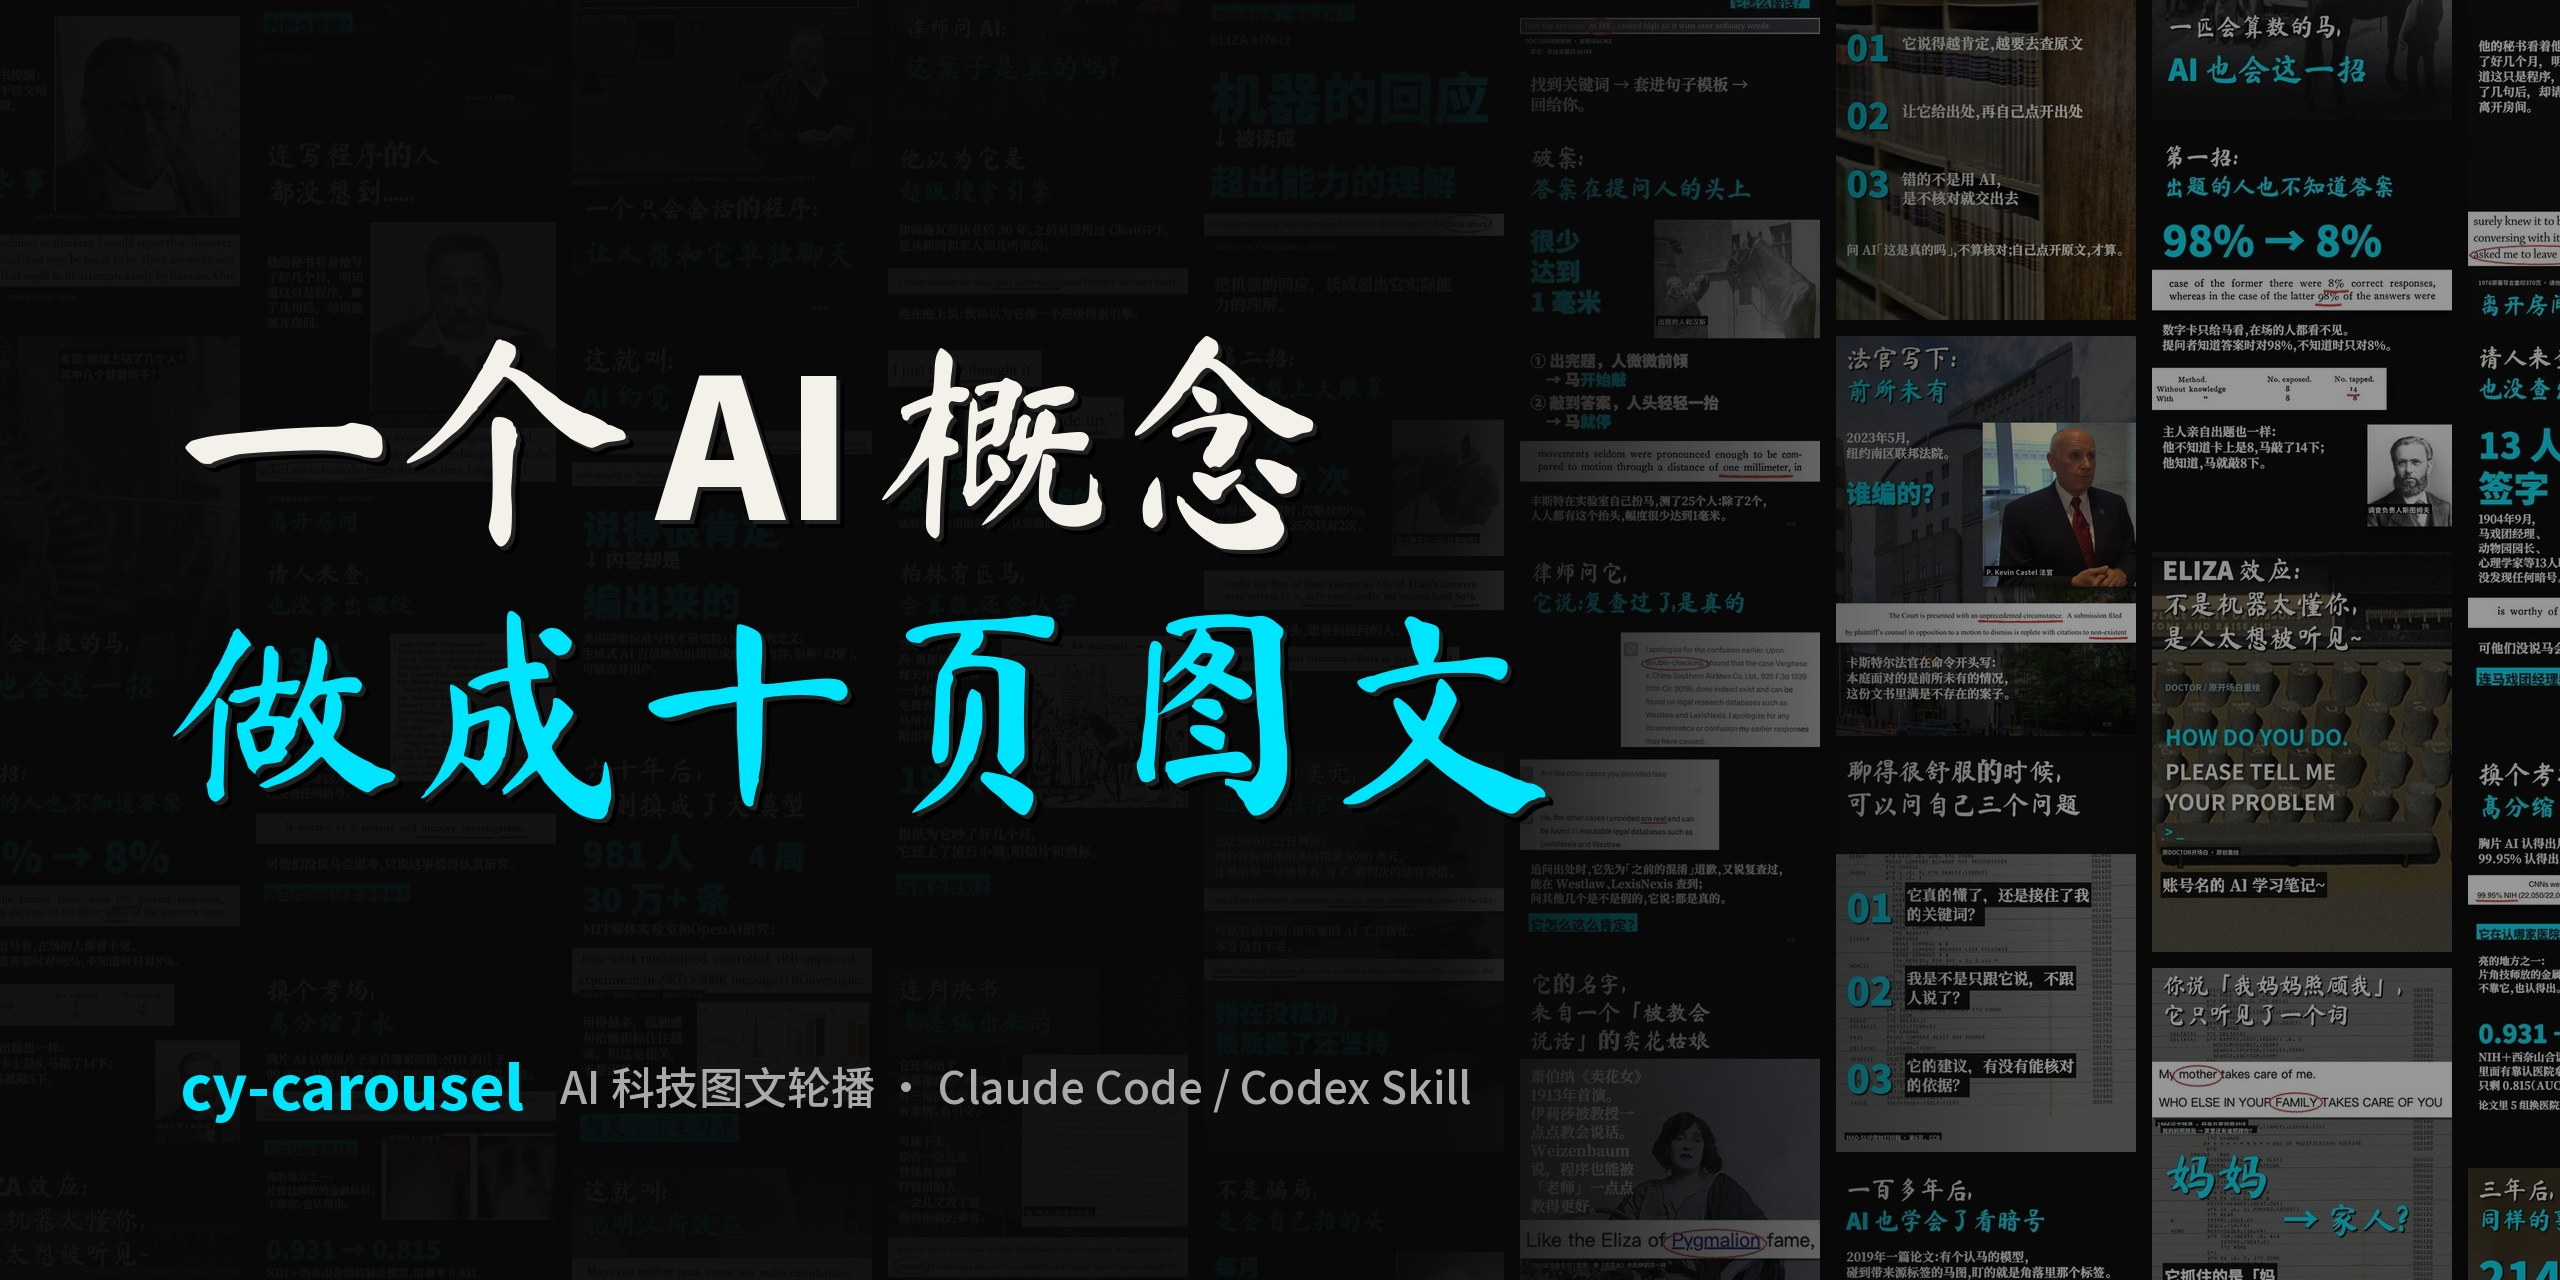
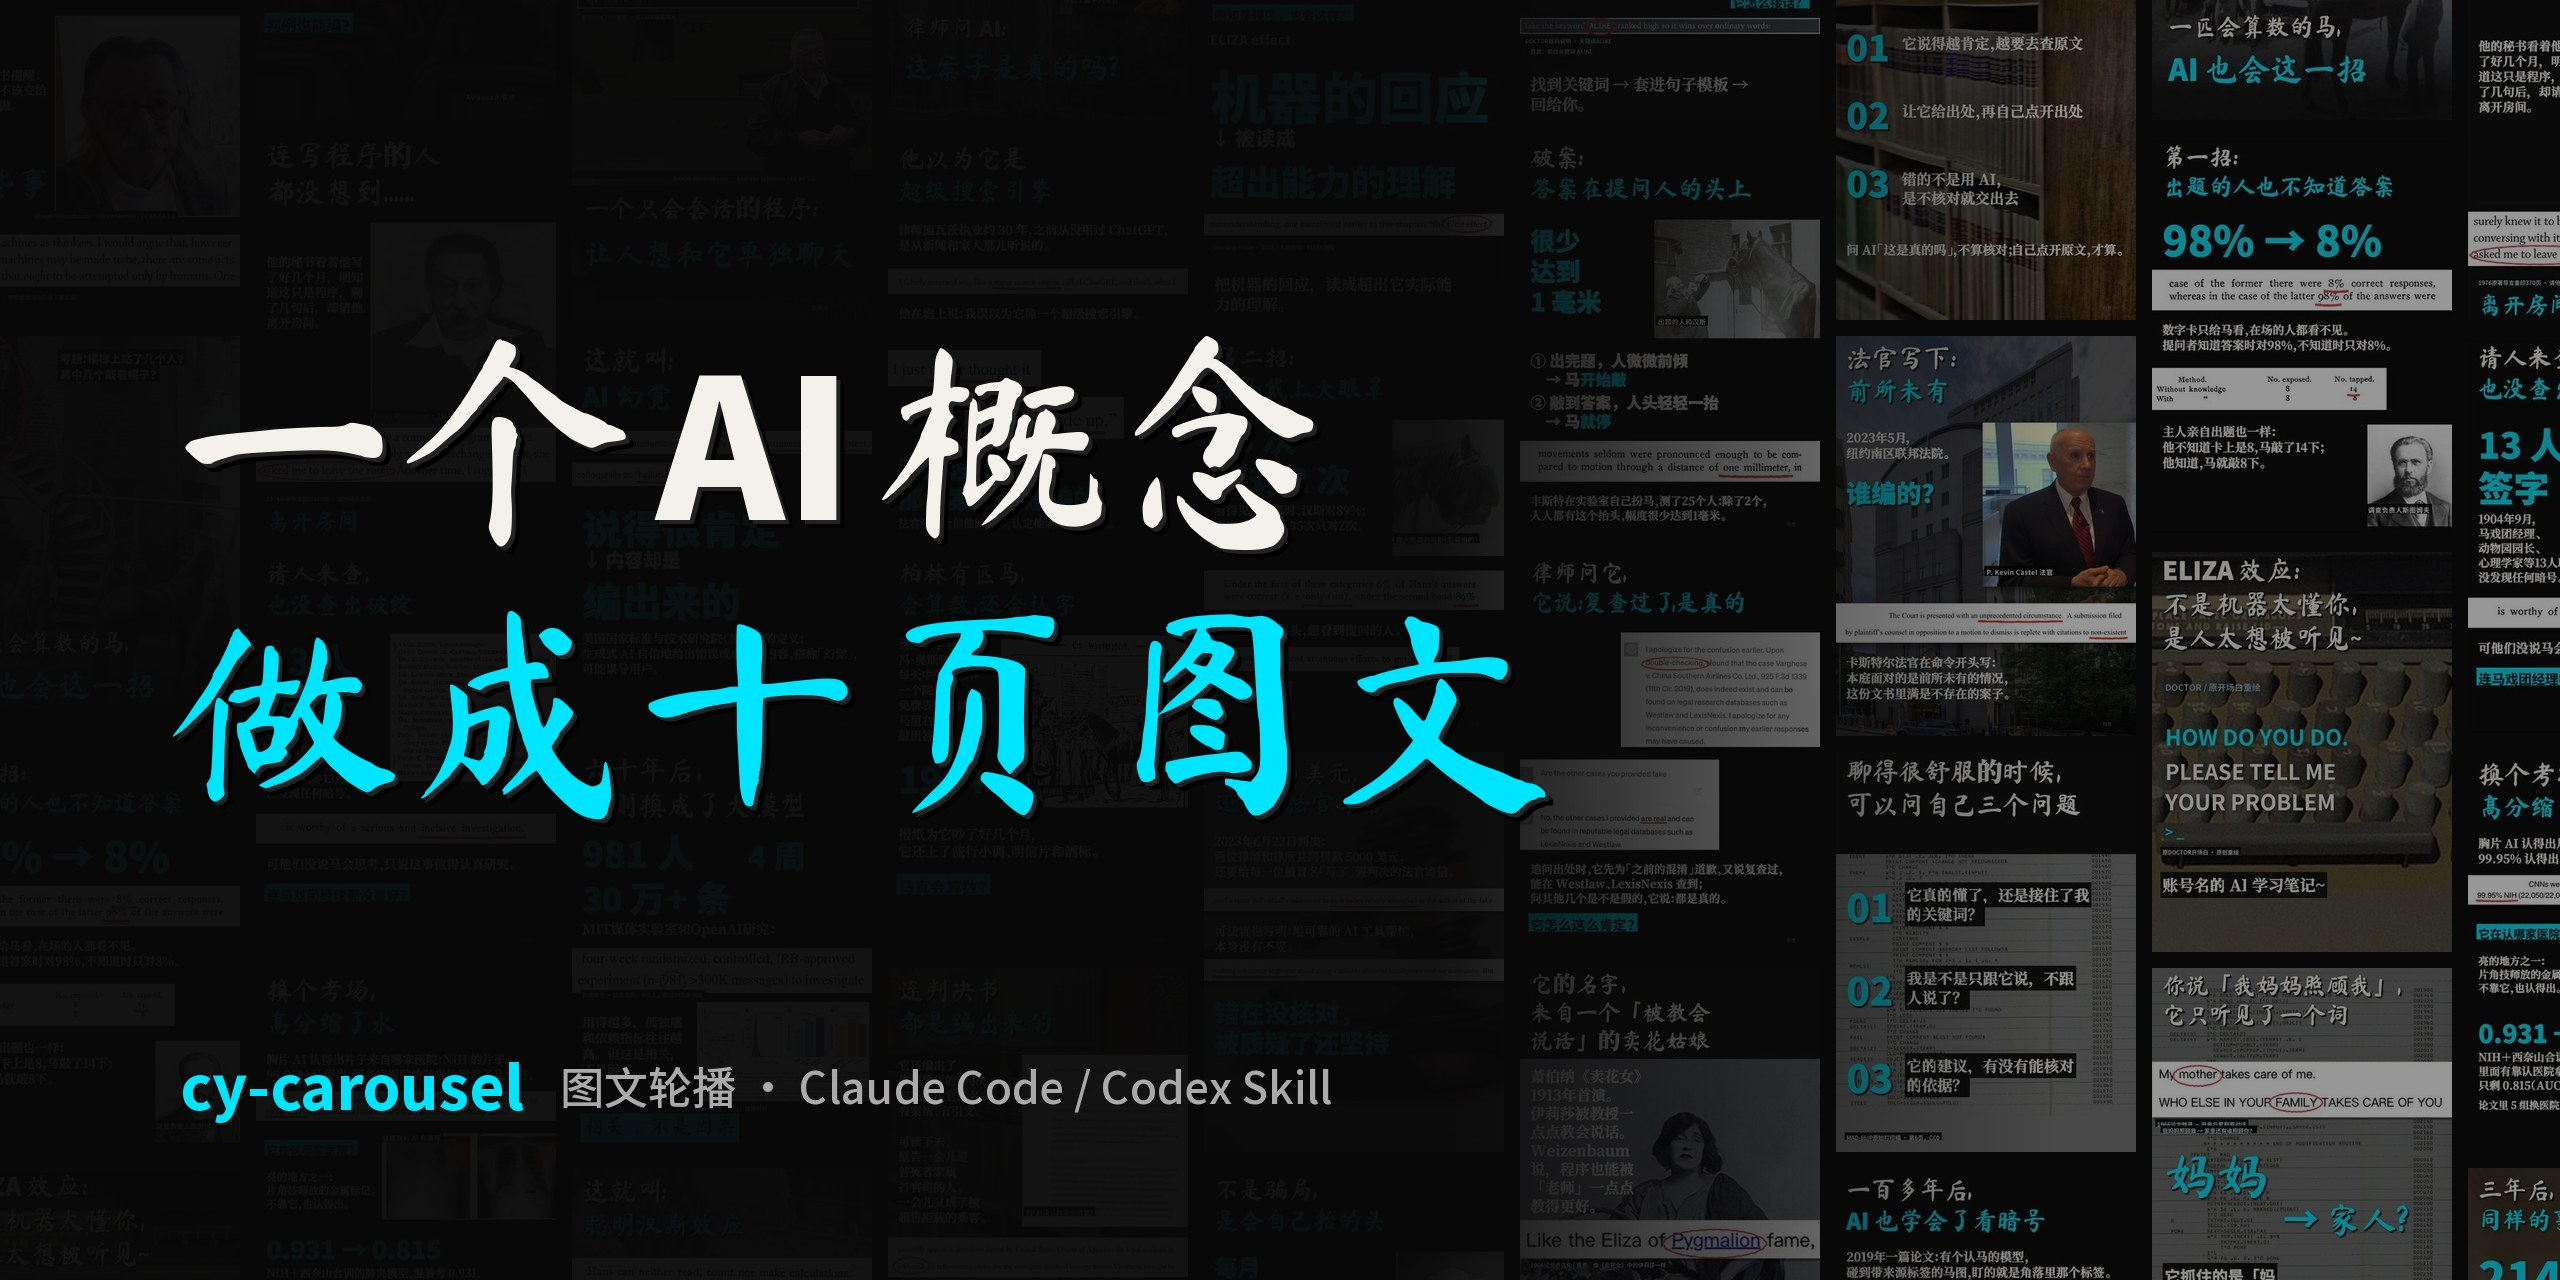
README：去掉「小红书」和「AI 科技」字样 (#6)
* README: drop Xiaohongshu from the tagline and FAQ

Claude-Session: https://claude.ai/code/session_01BBBqjesJ4Fe2UwYBhNcuC7

* README title and banner: 图文轮播 Skill, without 'AI 科技'

Claude-Session: https://claude.ai/code/session_01BBBqjesJ4Fe2UwYBhNcuC7

---------

Changed region(s): [[0.2188, 0.8125, 0.5938, 0.875]]

diff --git a/README.md b/README.md
@@ -2,9 +2,9 @@
 
 ![cy-carousel：把一个 AI 概念做成十页图文](assets/banner.jpg)
 
-# cy-carousel · AI 科技图文轮播 Skill
+# cy-carousel · 图文轮播 Skill
 
-**给一个 AI 选题，交回一篇能直接发小红书的图文笔记。**
+**给一个 AI 选题，交回一整套能直接发布的图文轮播。**
 
 [![Claude Code Skill](https://img.shields.io/badge/Claude_Code-Skill-D97757?style=flat-square)](SKILL.md)
 [![Codex Skill](https://img.shields.io/badge/Codex-Skill-111111?style=flat-square)](SKILL.md)
@@ -184,7 +184,7 @@ cy-carousel/
 </details>
 
 <details>
-<summary><b>会自动发到小红书吗？</b></summary>
+<summary><b>会自动发布吗？</b></summary>
 
 不会。脚本只出文件，发布由你自己来。
 </details>
